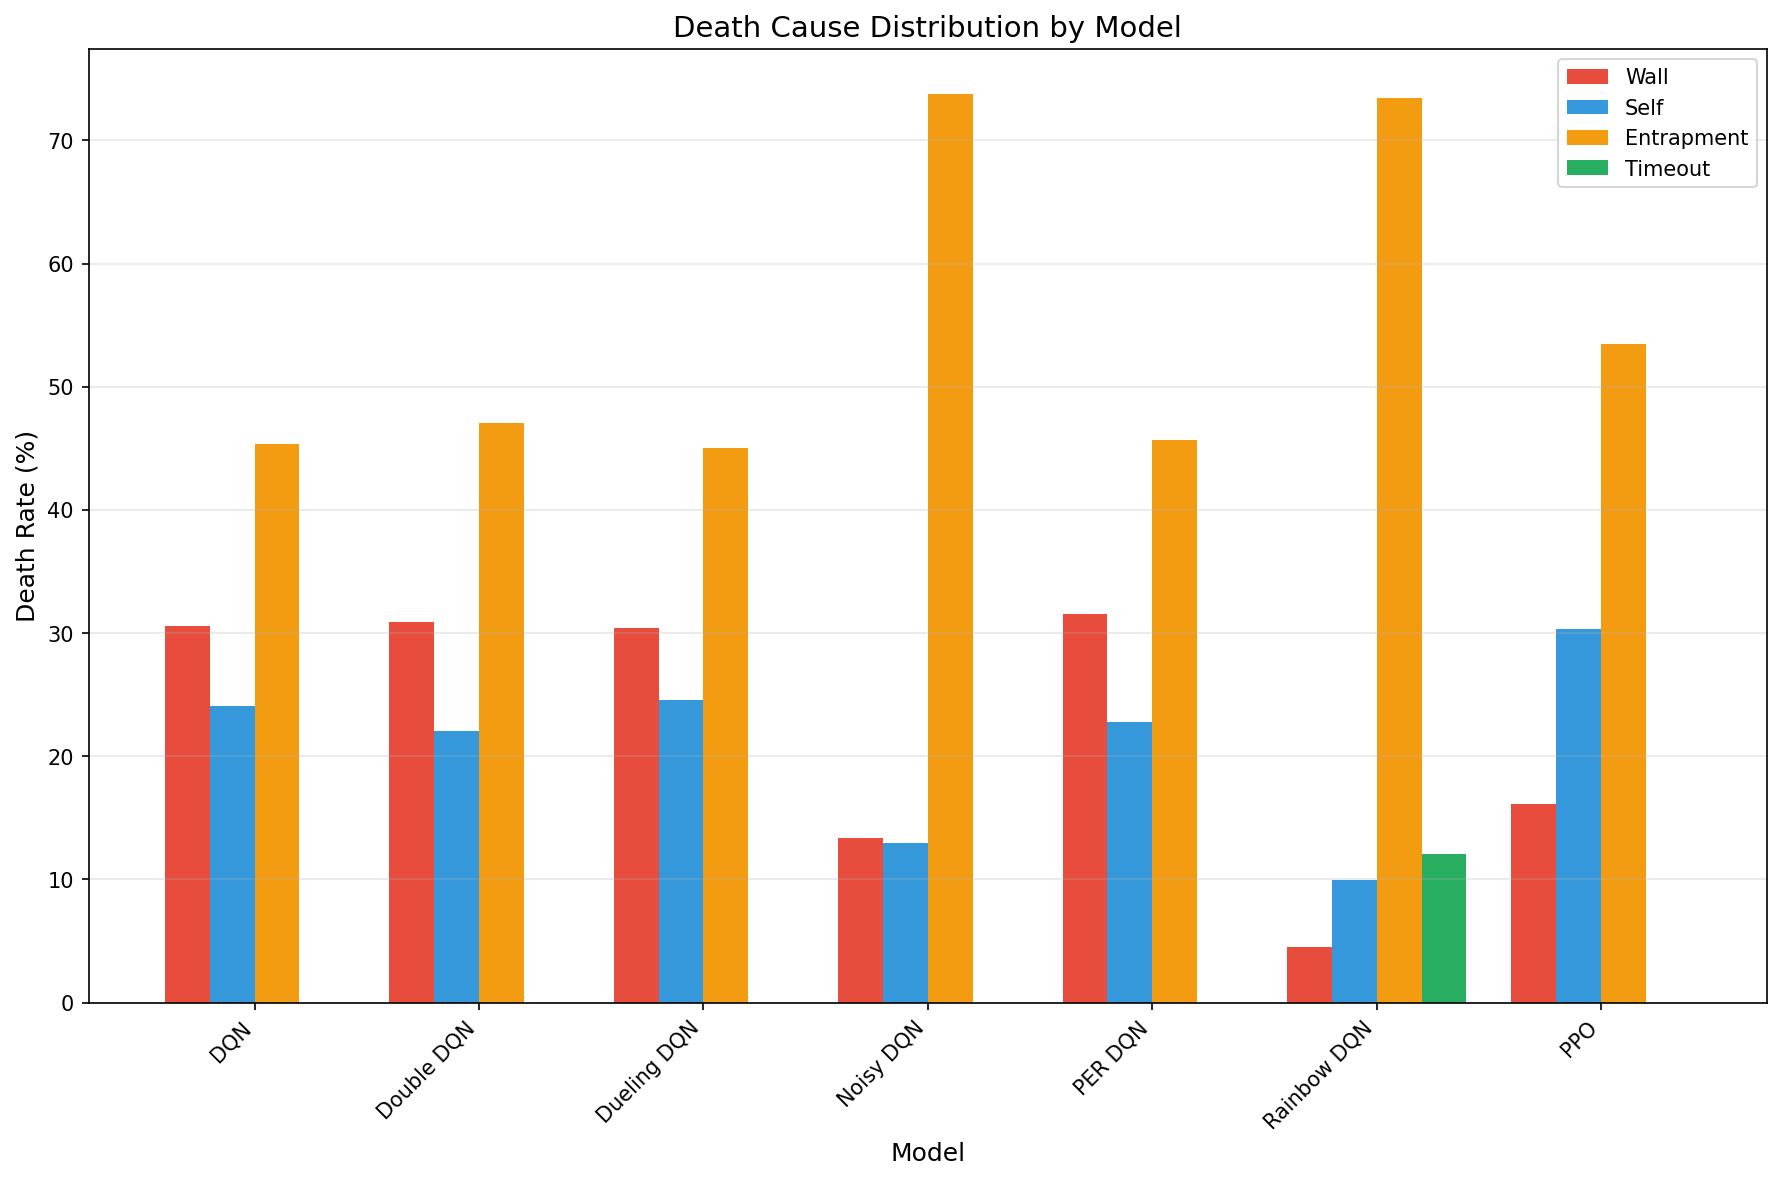
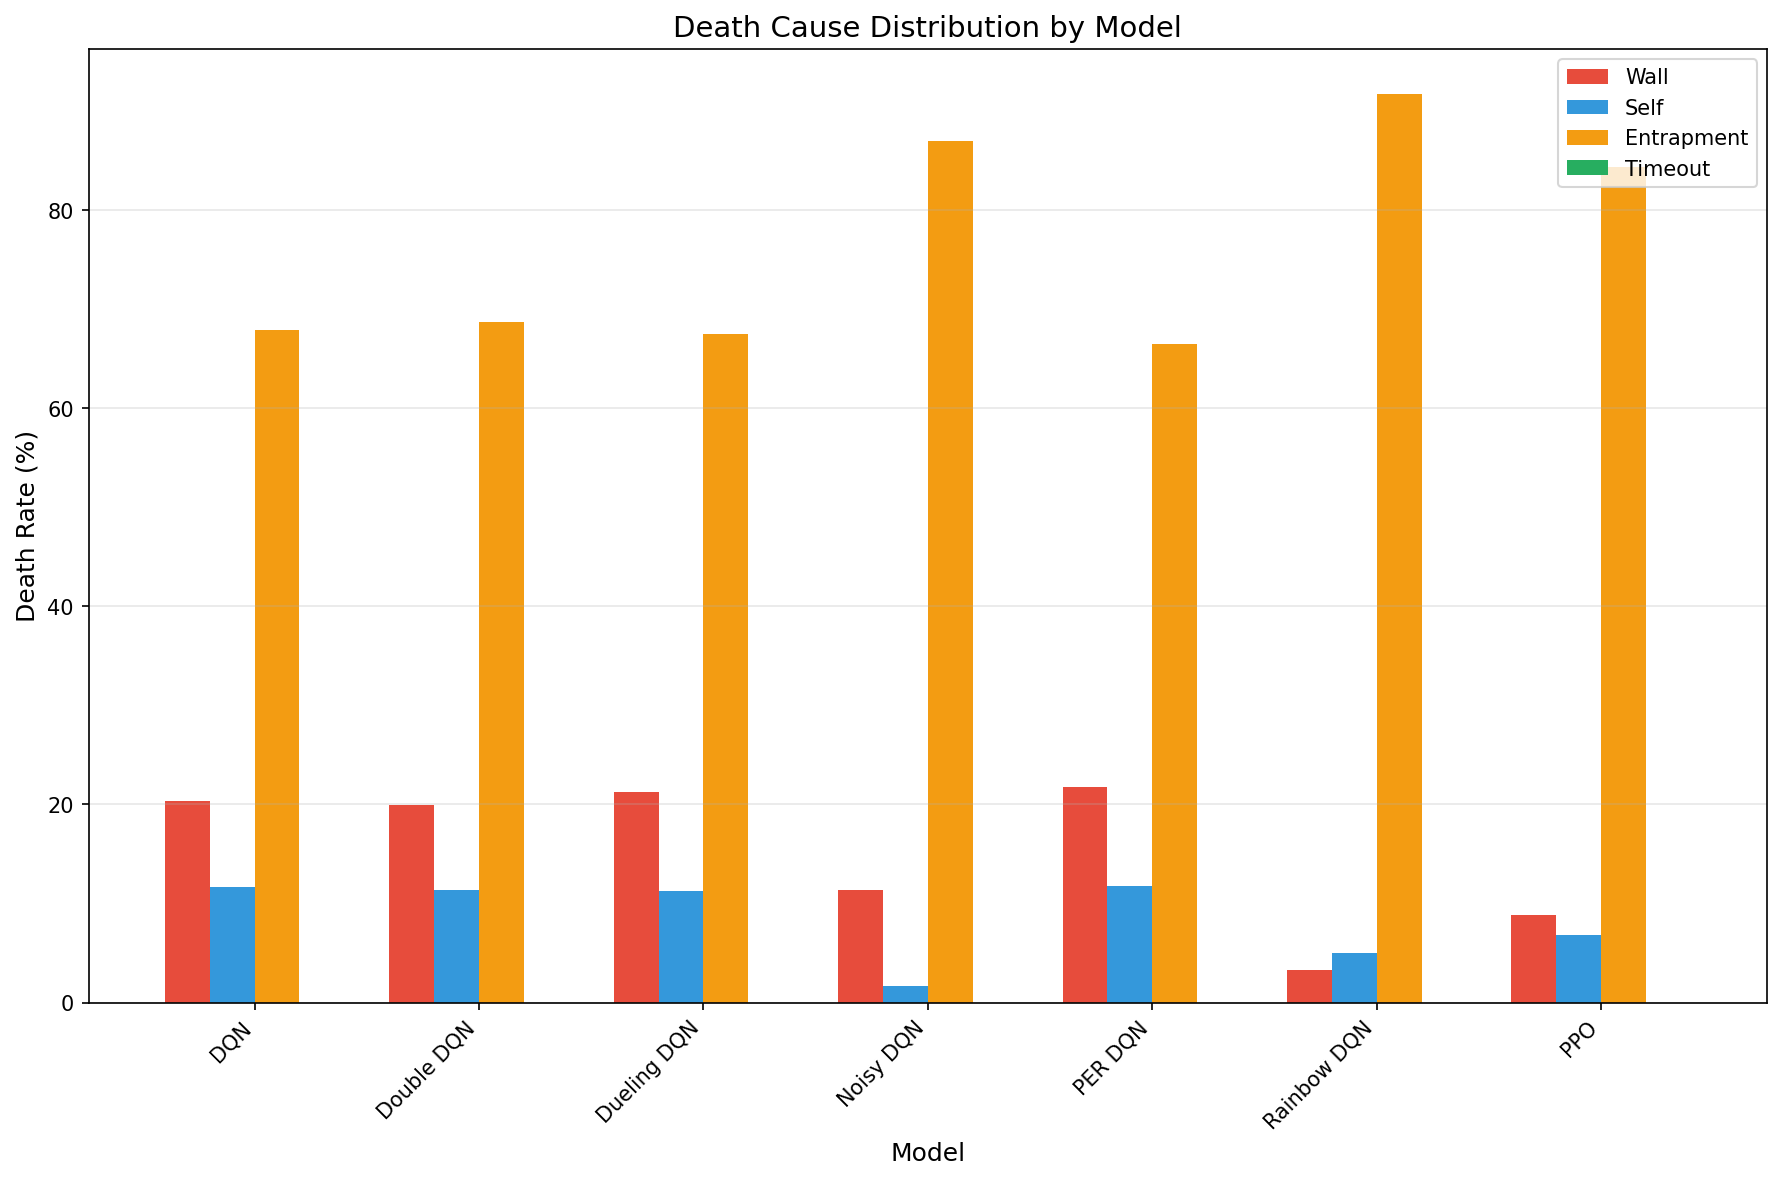
feat: retrain appendix with basic features, update report
- Retrain all 7 algorithms with basic features (no flood-fill)
- PPO achieves best score (19.51), DQN variants cluster at 15-17
- High entrapment rates (70-90%) demonstrate need for flood-fill
- Update appendix table, figures, and analysis text
- Update Discussion and Conclusion sections with new results
- Save episode scores in JSON for plot regeneration

diff --git a/report/report.tex b/report/report.tex
@@ -900,13 +900,14 @@ This section analyzes experimental results, organizing findings to match our exp
 
 \subsection{Algorithm Comparison}
 
-Our comprehensive evaluation across seven algorithms (see Appendix \ref{app:algorithm_comparison} for full details) reveals clear performance tiers. Rainbow DQN achieves the highest average score (37.54), followed closely by PPO (36.63). Both significantly outperform standard DQN variants, which cluster around 22-25 average score. Noisy DQN stands out among individual improvements with 30.10 average score.
+Our comprehensive evaluation across seven algorithms (see Appendix \ref{app:algorithm_comparison} for full details) reveals that PPO achieves the highest average score (19.51) with basic features, outperforming all DQN variants which cluster around 15-17 average score. Dueling DQN (16.70) and Rainbow DQN (16.49) show modest improvements over standard DQN (15.32).
 
-PPO learns faster initially but exhibits more variance during training, while Rainbow DQN has a slower start but achieves more stable high performance. In wall-clock time, DQN trains significantly faster due to its simpler update mechanism: while PPO requires multiple epochs of mini-batch updates per rollout, DQN performs single-step updates from replay buffer samples. For rapid prototyping, DQN offers quicker iteration cycles.
+PPO learns faster and achieves more stable performance compared to value-based methods. In wall-clock time, DQN trains significantly faster due to its simpler update mechanism: while PPO requires multiple epochs of mini-batch updates per rollout, DQN performs single-step updates from replay buffer samples. For rapid prototyping, DQN offers quicker iteration cycles.
 
-Individual DQN variants show varying degrees of improvement: Double DQN reduces overestimation and provides more stable learning; Dueling DQN shows benefits when many actions have similar value; PER accelerates learning but requires careful tuning; Noisy networks eliminate epsilon scheduling and achieve the strongest individual improvement. Rainbow DQN's combination of all improvements proves synergistic, achieving 63\% improvement over standard DQN.
+Individual DQN variants show modest improvements with basic features: Dueling DQN provides the best value-based performance; Double DQN reduces overestimation but shows similar final scores; PER and Noisy networks provide marginal benefits. Rainbow DQN's combination of improvements does not provide the dramatic gains seen in other domains, likely because the entrapment problem (70-90\% of deaths) cannot be solved through better value estimation alone.
 
 \subsection{State Representation Impact}
+\label{sec:representation_comparison}
 
 The flood-fill feature emerges as the most impactful state representation enhancement, nearly doubling average scores. PPO with basic features achieves 19.2 average score, while PPO with flood-fill achieves 37.5, a 95\% improvement. By measuring reachable free space in each direction, flood-fill enables the agent to avoid moves leading to dead-ends.
 
@@ -941,7 +942,7 @@ Two-snake credit assignment remains challenging. When one snake dies, determinin
 
 This project comprehensively investigated reinforcement learning techniques applied to the Snake game. We implemented multiple algorithms spanning value-based methods (DQN with Double, Dueling, PER, Noisy, and Rainbow variants) and policy gradient methods (REINFORCE, A2C, PPO), evaluated them in both single-snake and competitive two-snake scenarios, and identified key factors affecting performance.
 
-Our main contributions include implementing GPU-accelerated vectorized environments achieving 100-300x speedup, designing and comparing multiple state representations with flood-fill features proving most impactful, demonstrating that Rainbow DQN (37.54 avg score) and PPO (36.63 avg score) achieve the best single-snake performance with flood-fill features, developing effective curriculum learning strategies for competitive two-snake training, and providing practical recommendations for algorithm and representation selection.
+Our main contributions include implementing GPU-accelerated vectorized environments achieving 100-300x speedup, designing and comparing multiple state representations with flood-fill features proving most impactful, demonstrating that PPO achieves the best performance both with basic features (19.51 avg score) and flood-fill features (37.5 avg score), developing effective curriculum learning strategies for competitive two-snake training, and providing practical recommendations for algorithm and representation selection.
 
 \subsection{Limitations}
 
@@ -986,7 +987,7 @@ This work demonstrates that classic games remain valuable testbeds for RL resear
 \section{Algorithm Comparison}
 \label{app:algorithm_comparison}
 
-This appendix presents a comprehensive comparison of all implemented reinforcement learning algorithms trained under identical conditions: 3000 episodes, 256 parallel environments, 10x10 grid, flood-fill features enabled, and fixed random seed for reproducibility.
+This appendix presents a comprehensive comparison of all implemented reinforcement learning algorithms trained under identical conditions: 3000 episodes, 256 parallel environments, 10x10 grid, basic features (no flood-fill), and fixed random seed for reproducibility.
 
 \subsection{Performance Summary}
 
@@ -994,50 +995,48 @@ Table \ref{tab:appendix_results} summarizes the final performance metrics for ea
 
 \begin{table}[H]
 \centering
-\caption{Algorithm Performance Comparison (3000 episodes, flood-fill features)}
+\caption{Algorithm Performance Comparison (3000 episodes, basic features)}
 \label{tab:appendix_results}
 \begin{tabular}{lcccc}
 \toprule
 \textbf{Algorithm} & \textbf{Avg Score} & \textbf{Max Score} & \textbf{Training Time (s)} & \textbf{Entrapment \%} \\
 \midrule
-Rainbow DQN & \textbf{37.54} & 53 & 1892 & 73.4 \\
-PPO & 36.63 & \textbf{54} & 1684 & 53.5 \\
-Noisy DQN & 30.10 & 53 & 947 & 73.7 \\
-Double DQN & 25.09 & 42 & 379 & 47.1 \\
-Dueling DQN & 24.74 & 42 & 524 & 45.0 \\
-DQN & 23.00 & 47 & 371 & 45.3 \\
-PER DQN & 22.14 & 46 & 731 & 45.7 \\
+PPO & \textbf{19.51} & \textbf{40} & 563 & 77.5 \\
+Dueling DQN & 16.70 & 31 & 140 & 72.5 \\
+Rainbow DQN & 16.49 & 32 & 448 & 89.3 \\
+PER DQN & 15.99 & 34 & 158 & 71.5 \\
+DQN & 15.32 & 33 & 138 & 72.5 \\
+Noisy DQN & 15.28 & 34 & 181 & 82.2 \\
+Double DQN & 14.79 & 32 & 141 & 72.8 \\
 \bottomrule
 \end{tabular}
 \end{table}
 
-Rainbow DQN achieves the highest average score (37.54), followed closely by PPO (36.63). The synergistic combination of improvements in Rainbow DQN outperforms all individual DQN variants by a significant margin. Noisy DQN shows the strongest individual improvement over standard DQN, suggesting that learned exploration is particularly beneficial for the Snake environment.
+PPO achieves the highest average score (19.51), outperforming all DQN variants. Without flood-fill features, all algorithms plateau around 15-20 average score, significantly lower than the 35-40 scores achieved with flood-fill (see Section \ref{sec:representation_comparison}). This demonstrates that state representation has a larger impact on performance than algorithm choice.
 
 \subsection{Training Curves}
 
-Figure \ref{fig:appendix_training} shows the training score progression for all algorithms. Rainbow DQN and PPO converge to similar final performance but exhibit different learning dynamics: PPO learns faster initially but shows more variance, while Rainbow DQN has a slower start but achieves more stable high performance.
+Figure \ref{fig:appendix_training} shows the training score progression for all algorithms. PPO learns fastest and achieves the highest final performance. DQN variants cluster together around 15-17 average score, with Rainbow DQN showing early promise but similar final performance.
 
 \begin{figure}[H]
 \centering
 \includegraphics[width=0.95\textwidth]{figures/appendix_scores.png}
-\caption{Training score curves for all algorithms over 3000 episodes. Curves show rolling average scores. Rainbow DQN and PPO achieve the highest final performance, while standard DQN variants cluster around 22-25 average score.}
+\caption{Training score curves for all algorithms over 3000 episodes with basic features. PPO achieves the highest performance (~19.5), while DQN variants plateau around 15-17 average score. Without flood-fill features, all algorithms are limited by their inability to detect dead-ends.}
 \label{fig:appendix_training}
 \end{figure}
 
 \subsection{Death Cause Analysis}
 
-Figure \ref{fig:appendix_deaths} shows the distribution of death causes across algorithms. Higher-performing algorithms (Rainbow DQN, PPO) exhibit different death patterns than lower-performing ones.
+Figure \ref{fig:appendix_deaths} shows the distribution of death causes across algorithms. The dominance of entrapment deaths (70-90\%) across all algorithms highlights the limitation of basic features.
 
 \begin{figure}[H]
 \centering
 \includegraphics[width=0.95\textwidth]{figures/appendix_deaths.png}
-\caption{Death cause distribution by algorithm. Wall collisions (red), self-collisions (blue), entrapment (orange), and timeout (green). Rainbow DQN shows the lowest wall death rate (4.5\%) but highest entrapment (73.4\%), indicating successful wall avoidance but continued struggles with self-trapping at longer snake lengths.}
+\caption{Death cause distribution by algorithm with basic features. Entrapment (orange) dominates across all algorithms (70-90\%), demonstrating that without flood-fill features, agents cannot detect and avoid dead-ends. Rainbow DQN shows the highest entrapment rate (89.3\%) but lowest wall/self collision rates, indicating it learned to avoid immediate obstacles but still falls into spatial traps.}
 \label{fig:appendix_deaths}
 \end{figure}
 
-The death cause patterns reveal interesting behavioral differences. Rainbow DQN achieves very low wall collision rates (4.5\%) compared to other DQN variants (30-31\%), suggesting the distributional value estimation helps learn safer policies. However, Rainbow DQN's high entrapment rate (73.4\%) indicates that even the best agents struggle with long-term spatial planning as the snake grows.
-
-PPO shows more balanced death causes with moderate rates across all categories. This balanced profile, combined with strong performance, suggests PPO learns more robust general-purpose policies rather than optimizing for specific failure modes.
+The high entrapment rates across all algorithms demonstrate a fundamental limitation of basic features: agents cannot anticipate spatial dead-ends. While Rainbow DQN and PPO achieve lower wall and self-collision rates (indicating better immediate obstacle avoidance), they still succumb to entrapment at similar rates to simpler algorithms. This motivates the flood-fill feature engineering described in the main text, which reduces entrapment from 70-90\% to 40-55\%.
 
 %==============================================================================
 % REFERENCES

diff --git a/scripts/training/train_appendix.py b/scripts/training/train_appendix.py
@@ -344,7 +344,7 @@ def main(num_episodes: int = 3000, models: List[str] = None):
         'num_envs': 256,
         'grid_size': 10,
         'action_space_type': 'relative',
-        'use_flood_fill': True,
+        'use_flood_fill': False,  # Basic features only
         'learning_rate': 0.001,
         'batch_size': 64,
         'gamma': 0.99,
